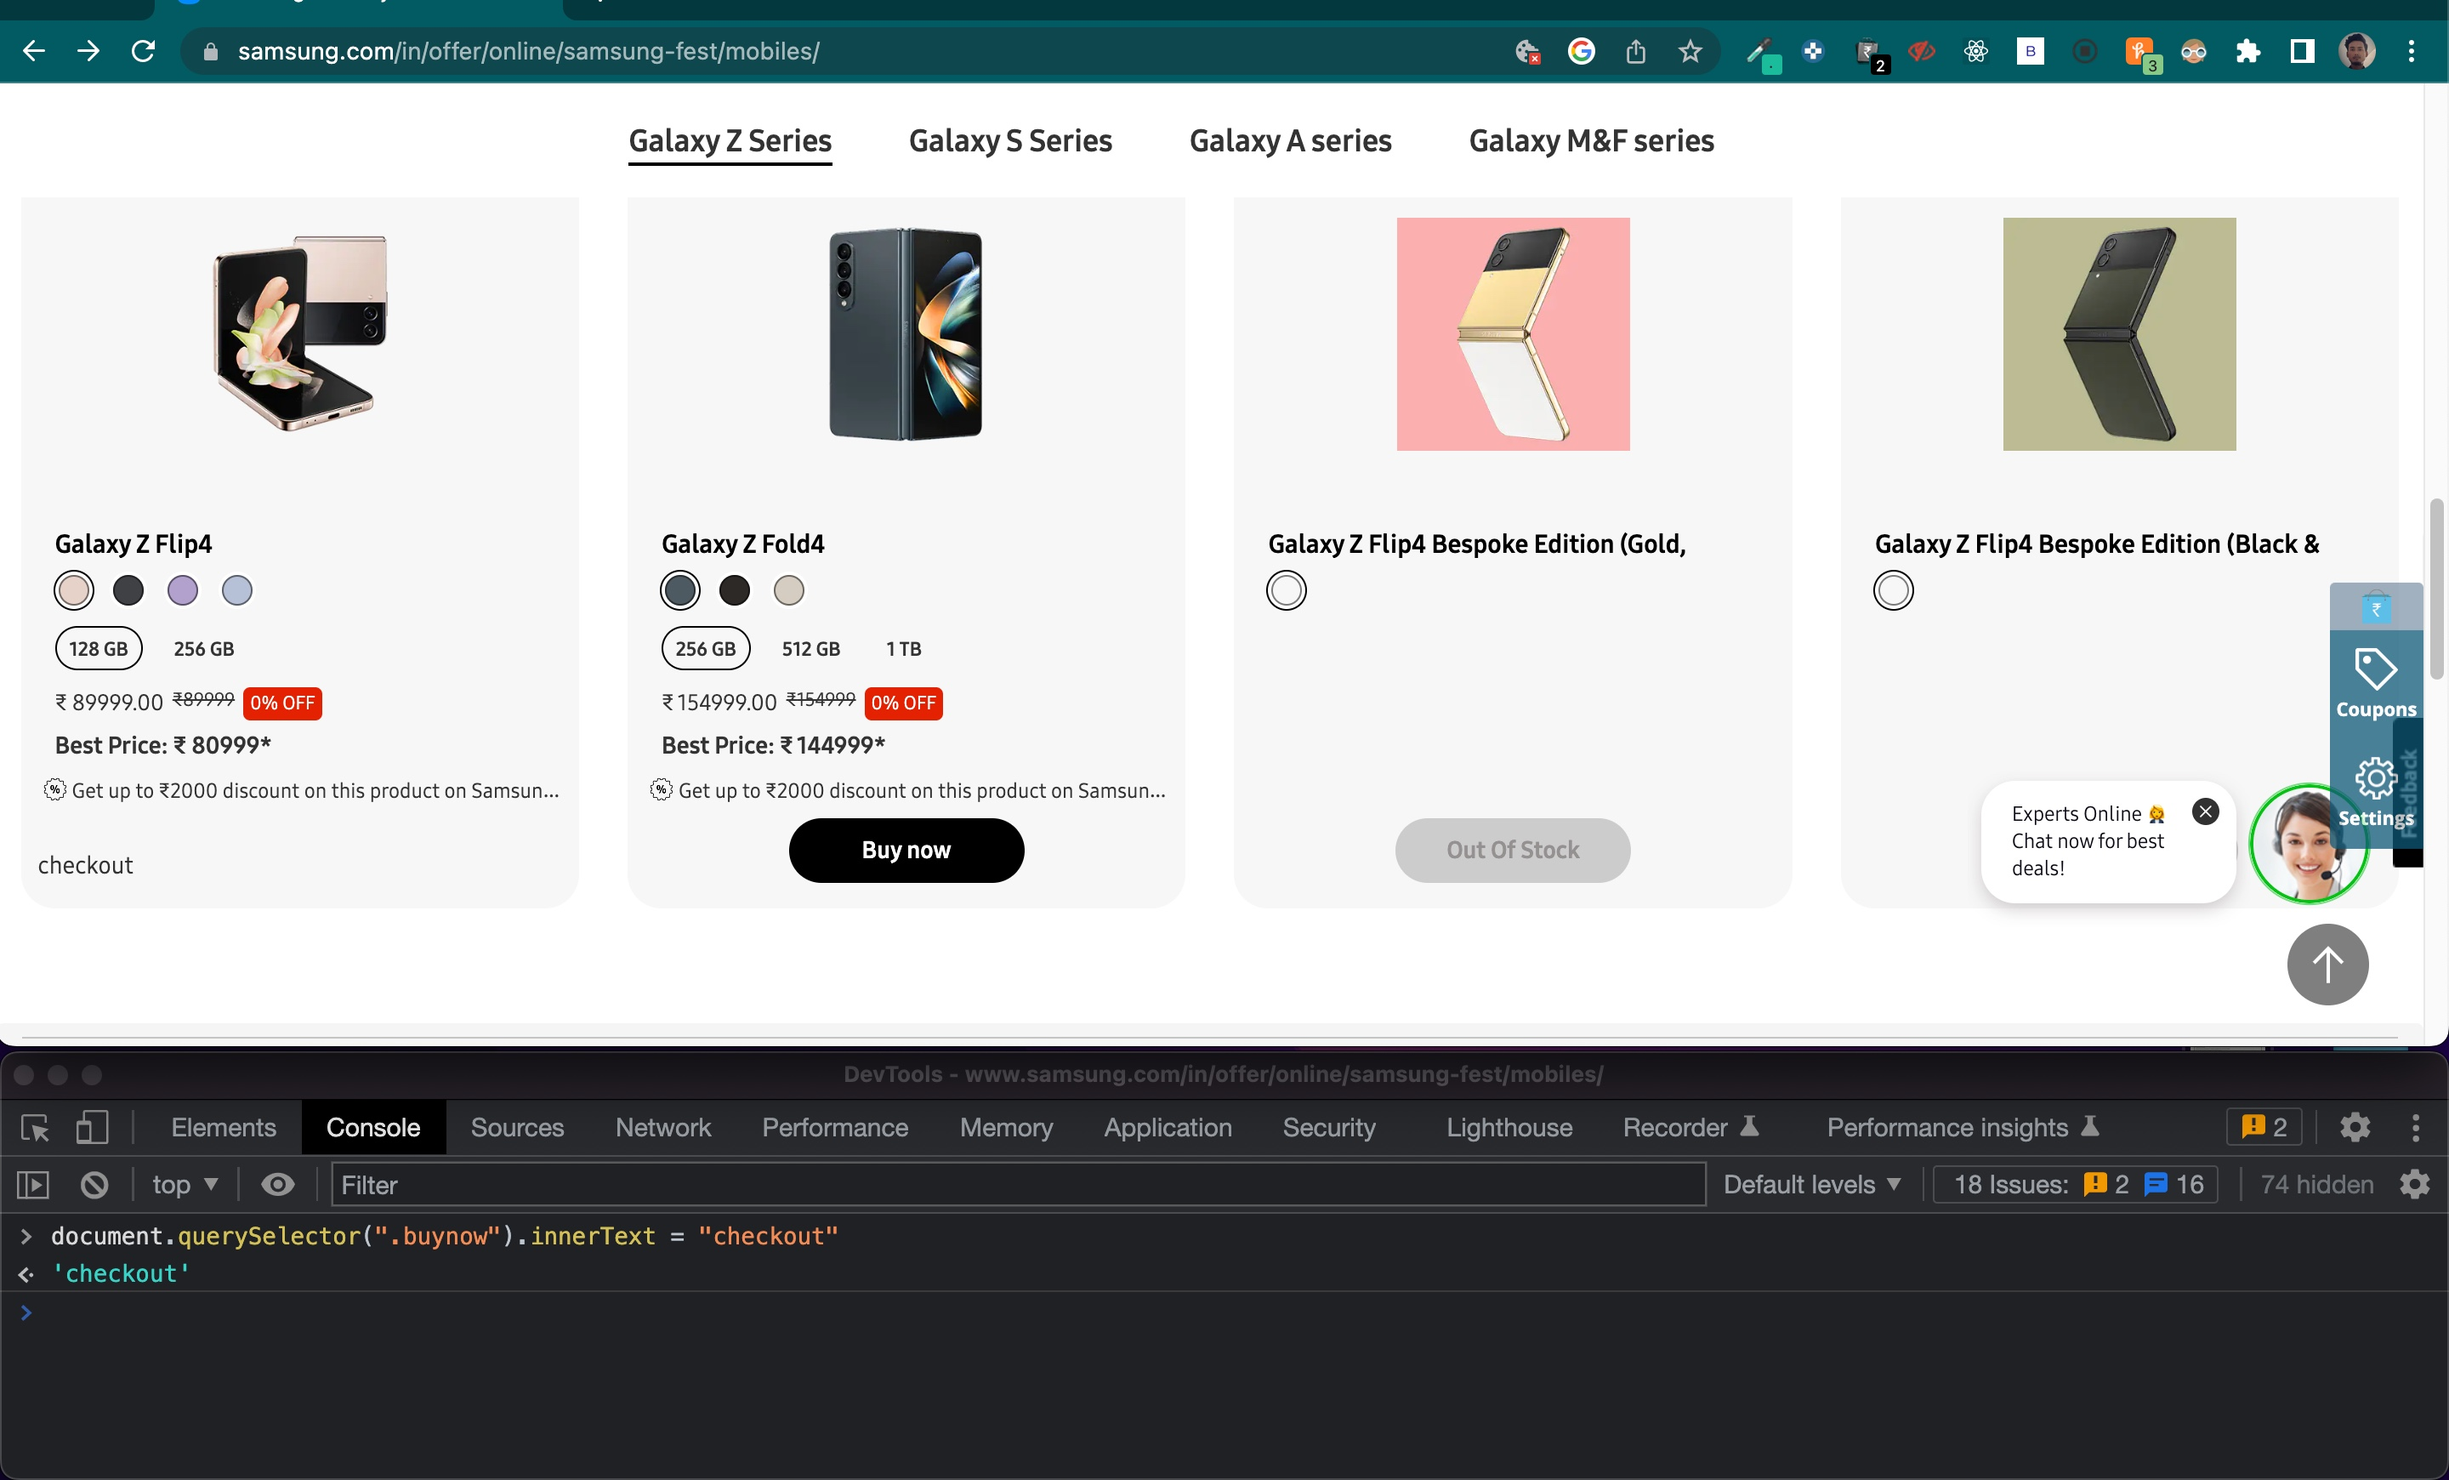
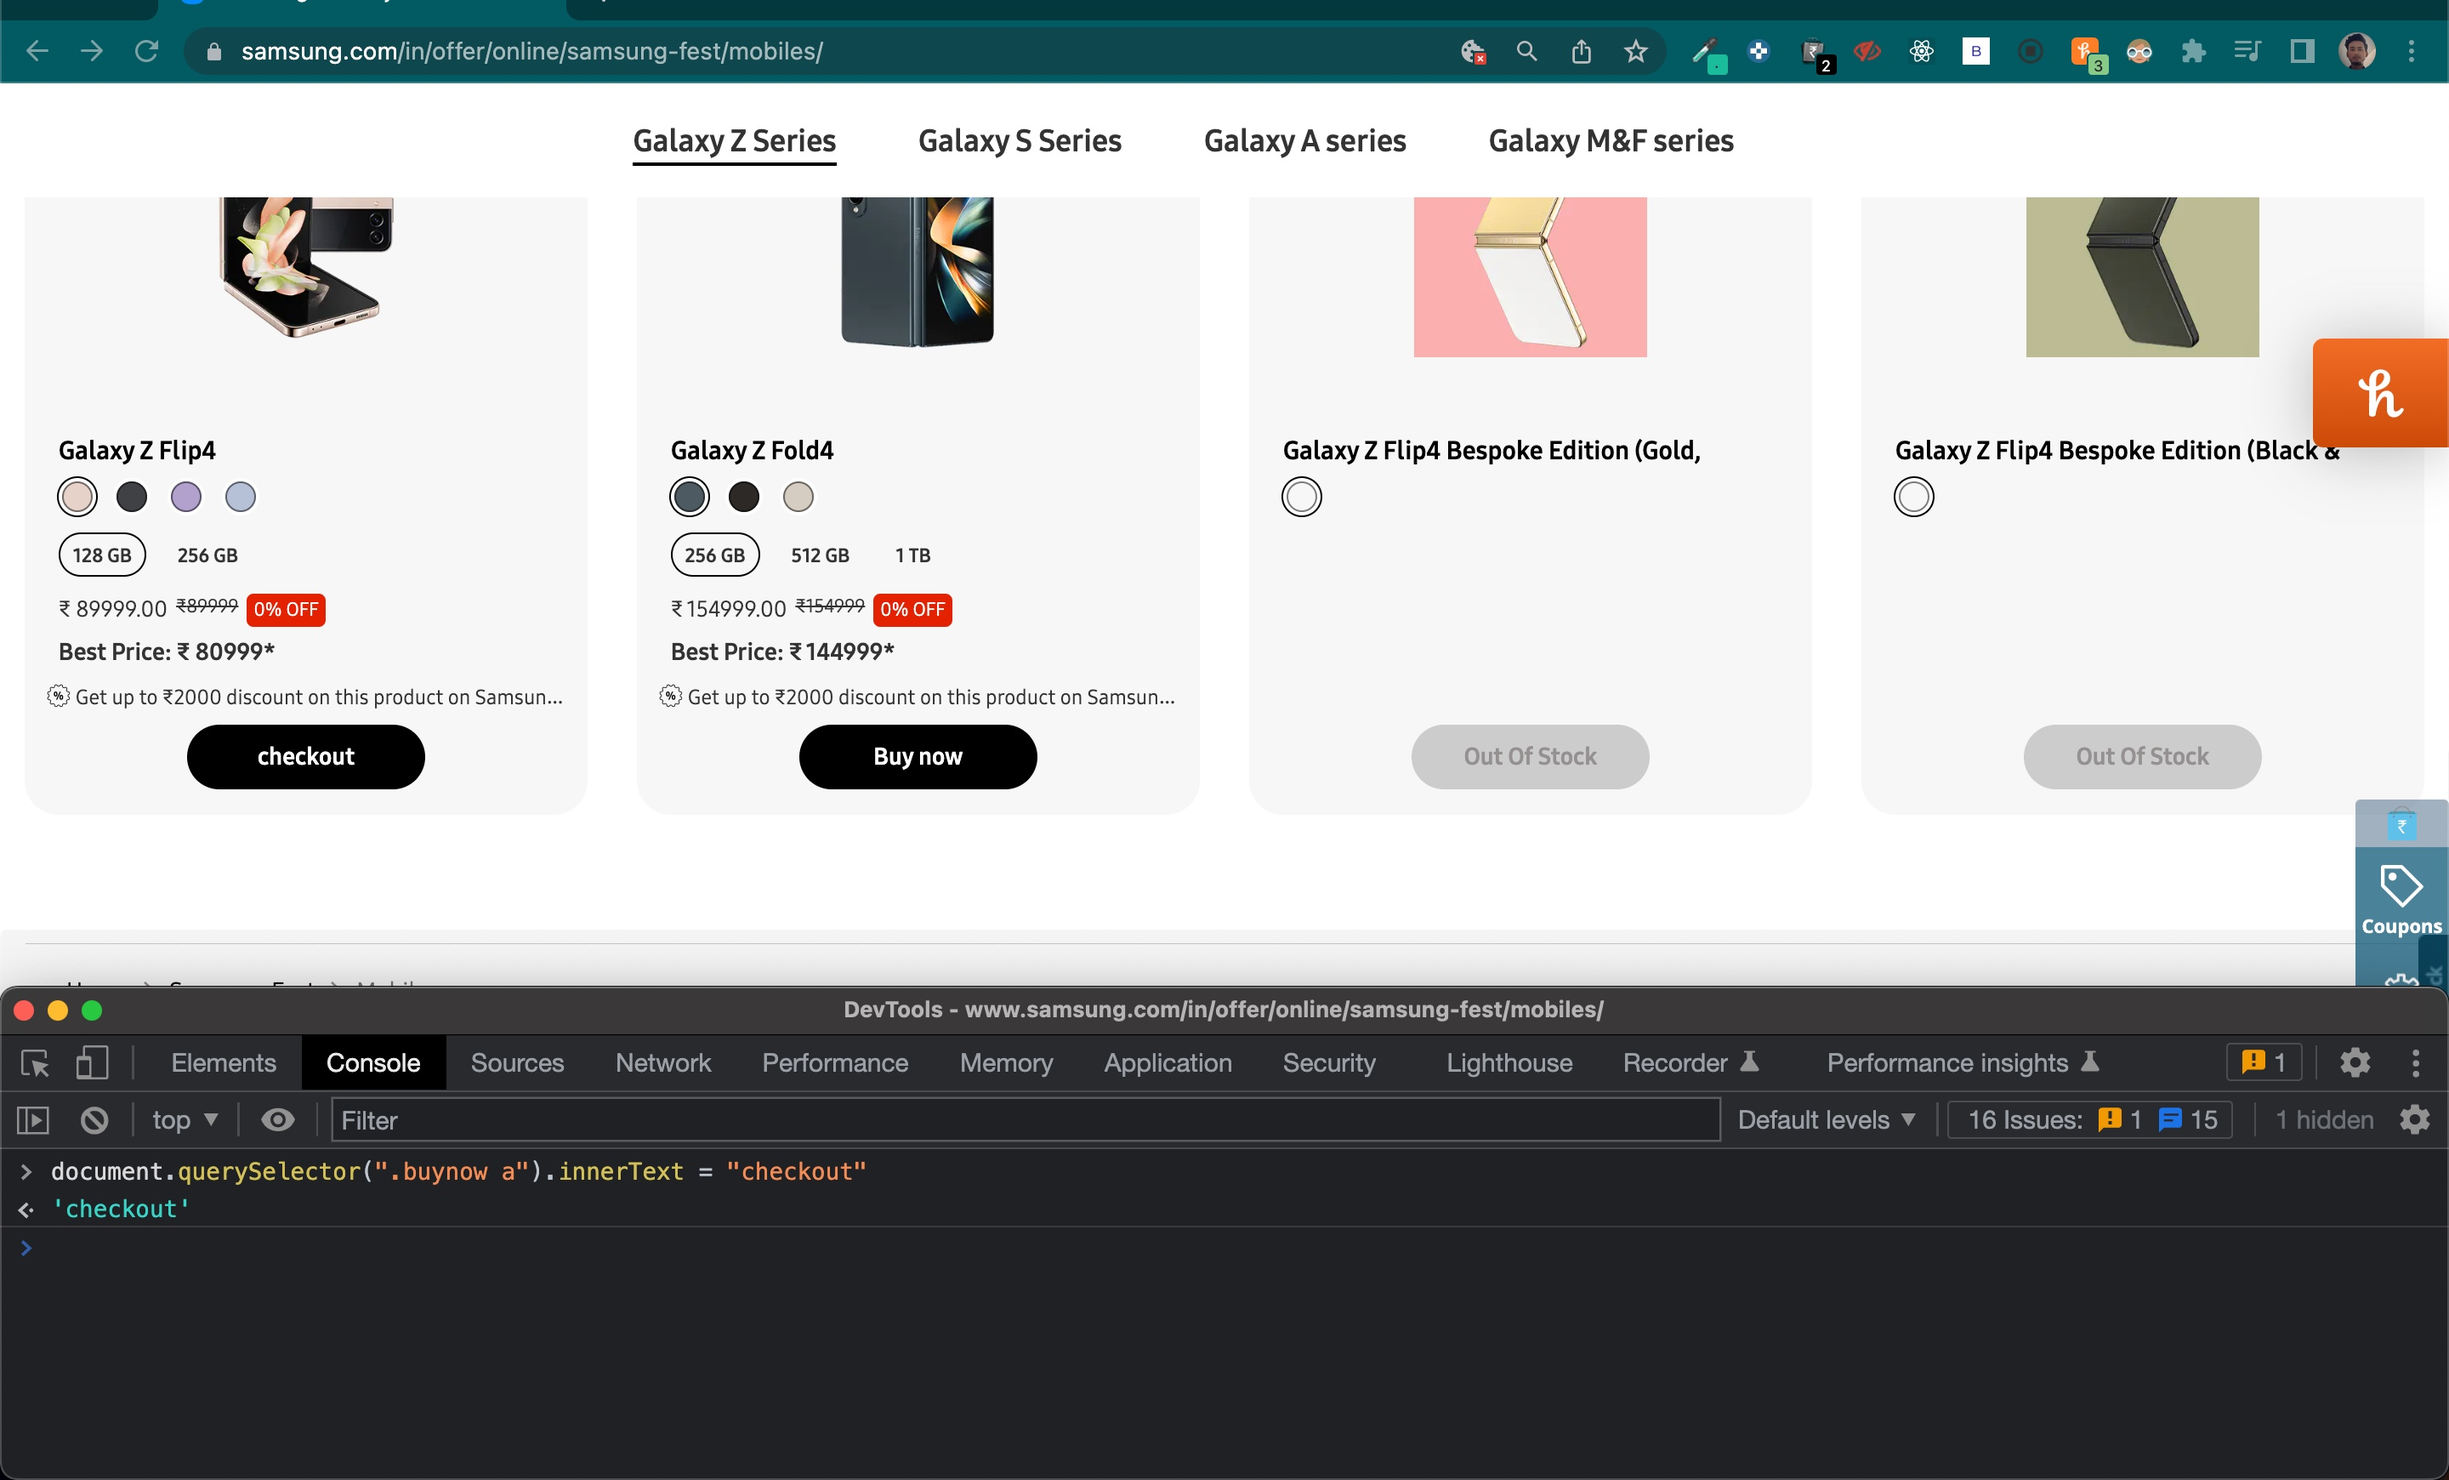
updated 5 dom

diff --git a/Readme.md b/Readme.md
@@ -110,8 +110,8 @@
 
 ![Output](./Pic9.png)
 ### SOLUTION
-     - document.querySelector(".buynow").innerText = "checkout"
-[solution](./screenshots/5.jpg)
+     - document.querySelector(".buynow a").innerText = "checkout"
+![solution](./screenshots/5.jpg)
 
 6. Webiste Name: [Adidas](https://www.adidas.co.in/)
 
